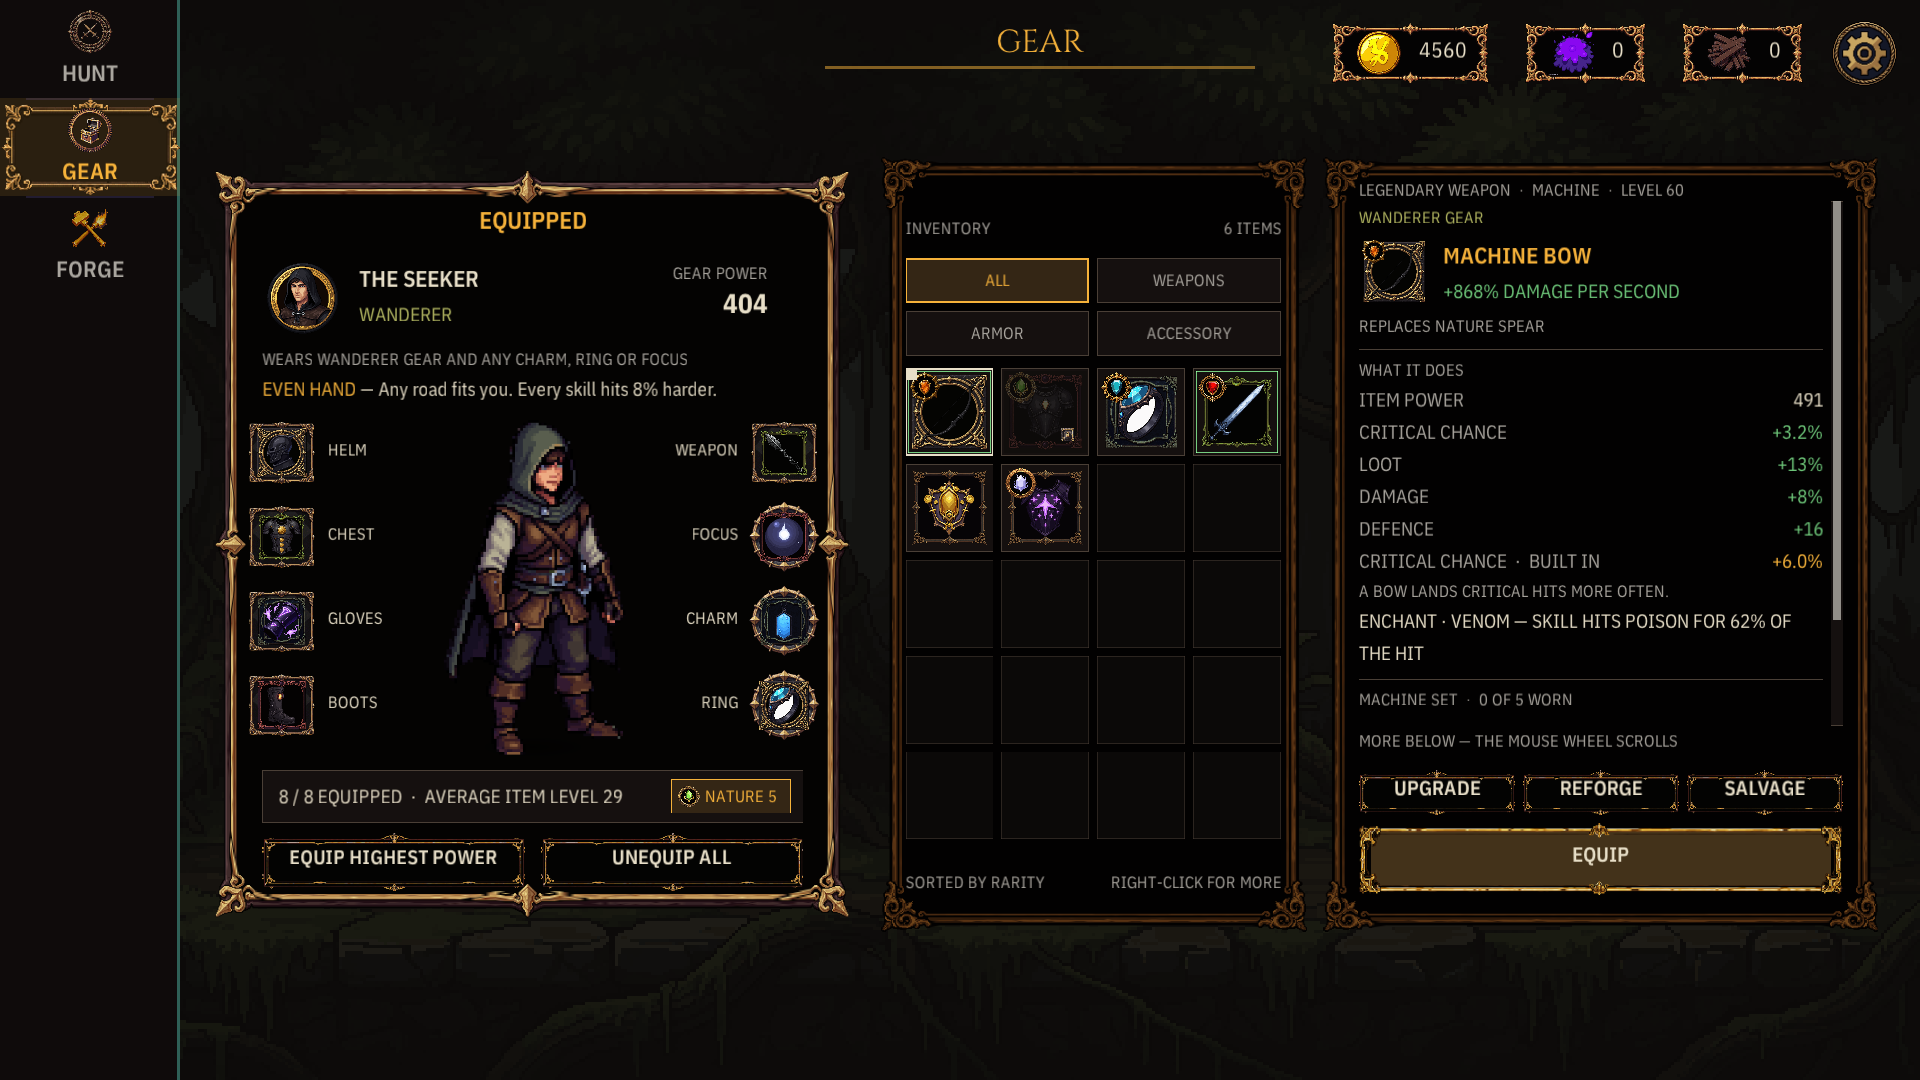
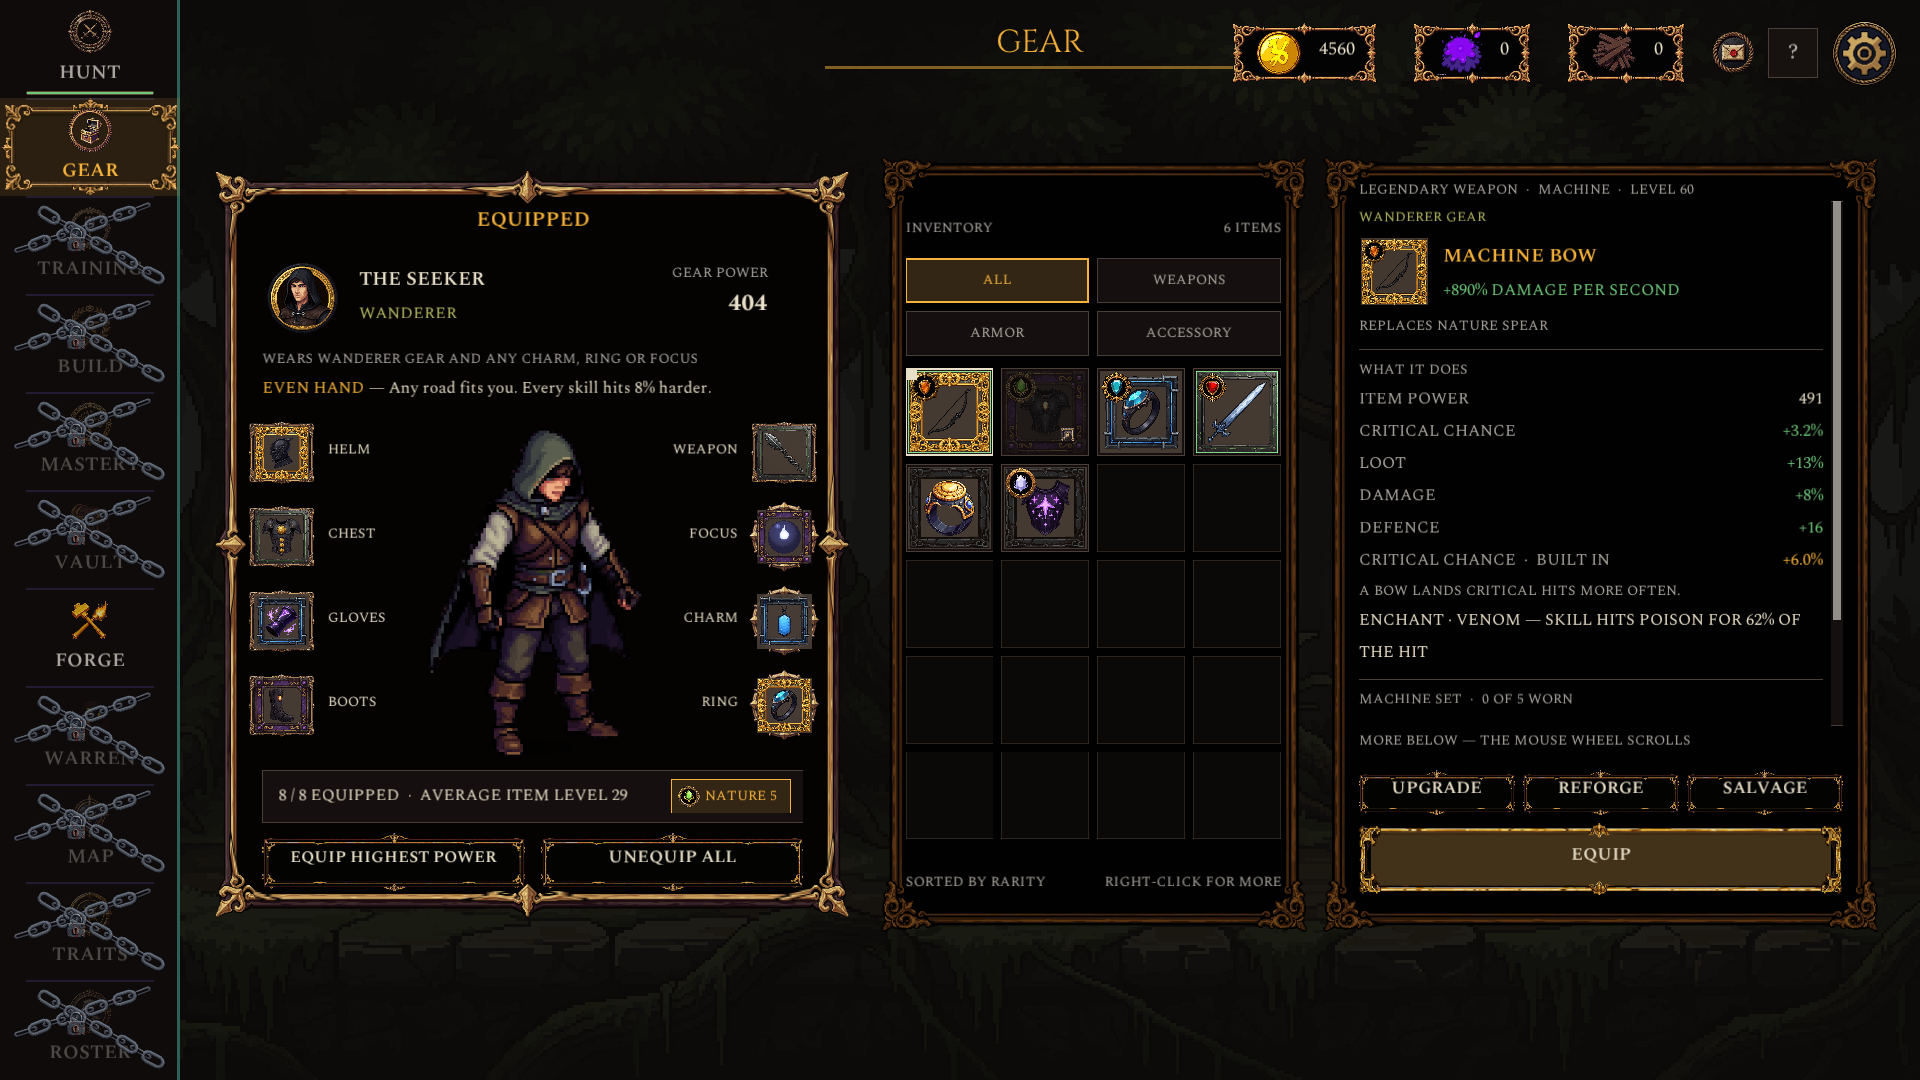
test(items): the item evidence re-shot with the regenerated frames, and the fixture script that takes it
Fifteen captures (Gear selected and hovered, Forge, the chest reveal, the trader at 100/125/150) with
the see-through rarity frames on disk, inspected whole and at 2x; every verdict passes, the darkest
glyph noted. tools/asset-pipeline/item_fixtures.sh re-takes the set.

Visual pass 2026-09-16 §2.7.

diff --git a/production/qa/evidence/visual-pass/items/README.md b/production/qa/evidence/visual-pass/items/README.md
@@ -1,10 +1,10 @@
 # ITEM CELLS — slot well, rarity frame, glyph: three layers with three jobs (2026-09-16)
 
-Captured from the running game on 2026-09-16 with the OLD rarity frames still on disk (the five
-`ui_frame_rarity_*.png` have an opaque near-black centre, so `ItemArtMetrics.FrameInterior` reports
-the 15 % fallback and the renderer keeps tinting them). **These captures judge the LAYOUT.** The
-verdicts marked *waits on the new family* cannot be given until the regenerated transparent-centred
-frames land; nothing in the code changes for them — the renderer measures the hole from the texture.
+Captured from the running game on 2026-09-16 with the REGENERATED rarity frames (five pixel-art
+frames with see-through centres, one band, progressive ornament: plain iron · green inlay · blue steel
+brackets · violet enamel with gold corners · gold filigree with a crest). `ItemArtMetrics.FrameInterior`
+measures each hole (10-20 % per side) and the renderer draws every frame untinted. Re-run with
+`bash tools/asset-pipeline/item_fixtures.sh [filter]`.
 
 ## What was built
 
@@ -36,17 +36,26 @@ glyph on disk, mean luminance 22/255), Epic WARDEN chest (locked), Rare ring wea
 
 ## Verdicts
 
-| check | 100 | 125 | 150 | note |
-|---|---|---|---|---|
-| frame fills the slot | pass | pass | pass | 94 % of the cell, a 3 px rim of the plate shows on every side |
-| glyph fills the frame | pass | pass | pass | content-aware: the ring, the sword and the chest reach the hole's edges; before, each sat in a 15 % inset of its own padding |
-| slot boundaries obvious | pass | pass | pass | the plate's hairline and the rim read as the cell; the frame reads as the item |
-| rarity obvious from the frame | *waits on the new family* | — | — | the legacy set is one gold ring under five tints; Legendary (white) and Uncommon (green) can be told apart, Rare and Epic only side by side |
-| no white squares | pass | pass | pass | every glyph draws from its content bounds; no canvas edge shows |
-| no double rarity encoding in square cells | pass | pass | pass | the strips are gone from the grid and the doll; the Forge ROW keeps its strip on purpose |
-| selected ≠ Legendary | pass | pass | pass | bone ring + corner tick on the Legendary bow; the hover is a grey Slate ring on the Common ring cell; gold appears only in the frame art |
-| dark items visible | **fail on the legacy frame** | fail | fail | `item_weapon_bow_heavy` is a thin near-black bow on the legacy frame's near-black interior — visible only by its highlight. The new family's transparent hole sits on `WellInk` (Black × 0.35 over the plate), a step lighter; re-judge then. If it still fails, the fix is in the art (the ~10 glyphs under 30/255 luminance) or a lighter well, not the layout |
-| no clipping at 150 % | — | — | pass | the 3-column grid, the doll's 48 px wells, the 96 px inspector icon, the 144 px trader offers and the 120 px reveal all draw whole |
+Every picture was looked at whole and the Gear grid again at 2x (`gear_selected_100` 925-1335 x 255-465).
 
-Row context (the Forge bag): the 30 px row icon draws the frame and the glyph, and at that size a
-dark glyph is a smudge — the row's name and strip carry the identity there, as they always have.
+| check | 100 | 125 | 150 | what the pictures show |
+|---|---|---|---|---|
+| frame fills the slot | PASS | PASS | PASS | the frame is 94 % of the cell; a thin plate rim is the slot well |
+| glyph fills the frame | PASS | PASS | PASS | content-aware: the ring, sword and chest reach the hole's edges; nothing floats as a thumbnail |
+| slot boundaries obvious | PASS | PASS | PASS | plate hairline + rim read as the cell; empty cells stay half-strength plates |
+| rarity obvious from the frame | PASS | PASS | PASS | iron / green inlay / blue brackets / violet enamel / gold filigree — shape and ornament differ, not only hue |
+| no white or black squares | PASS | PASS | PASS | every hole is see-through onto the warm well |
+| no double rarity encoding in square cells | PASS | PASS | PASS | no strip in the grid, the doll, the dragged piece or the flight (source-pinned) |
+| selected is not Legendary | PASS | PASS | PASS | the selected Legendary bow wears a bone ring and a bone corner tick round its gold frame |
+| hovered is its own look | PASS | PASS | PASS | `gear_showcase_*`: the Common ring's cell lifts and takes a slate ring; the hover card hangs off it |
+| dark glyphs visible | PASS (noted) | PASS (noted) | PASS (noted) | the darkest file (`item_weapon_bow_heavy`, mean luminance 22) reads as a thin dark bow on the warm well; it is thin art, not a hidden one |
+| no clipping at 150 % | PASS | PASS | PASS | three-column grid, 48 px doll wells, 96 px inspector icon, 120 px reveal cell all whole |
+| same object everywhere | PASS | PASS | PASS | Forge bag rows, the reveal card, the trader's cards and the inspector draw the same frame grammar at their own sizes |
+
+## Notes
+
+- The well is the branch's old "shelf" ink (`UiInk.Rule * 0.9`), now painted under the see-through
+  frame: that is what keeps near-black iron glyphs from vanishing on a dark cell.
+- `tools/check_item_art.py` refuses a rarity frame whose centre is painted — the 2026-08 family would
+  have failed it (centre alpha 255).
+- The Forge bag ROW keeps its 5 px strip and its gold `SelectedEdge`: a row is not a square cell.
